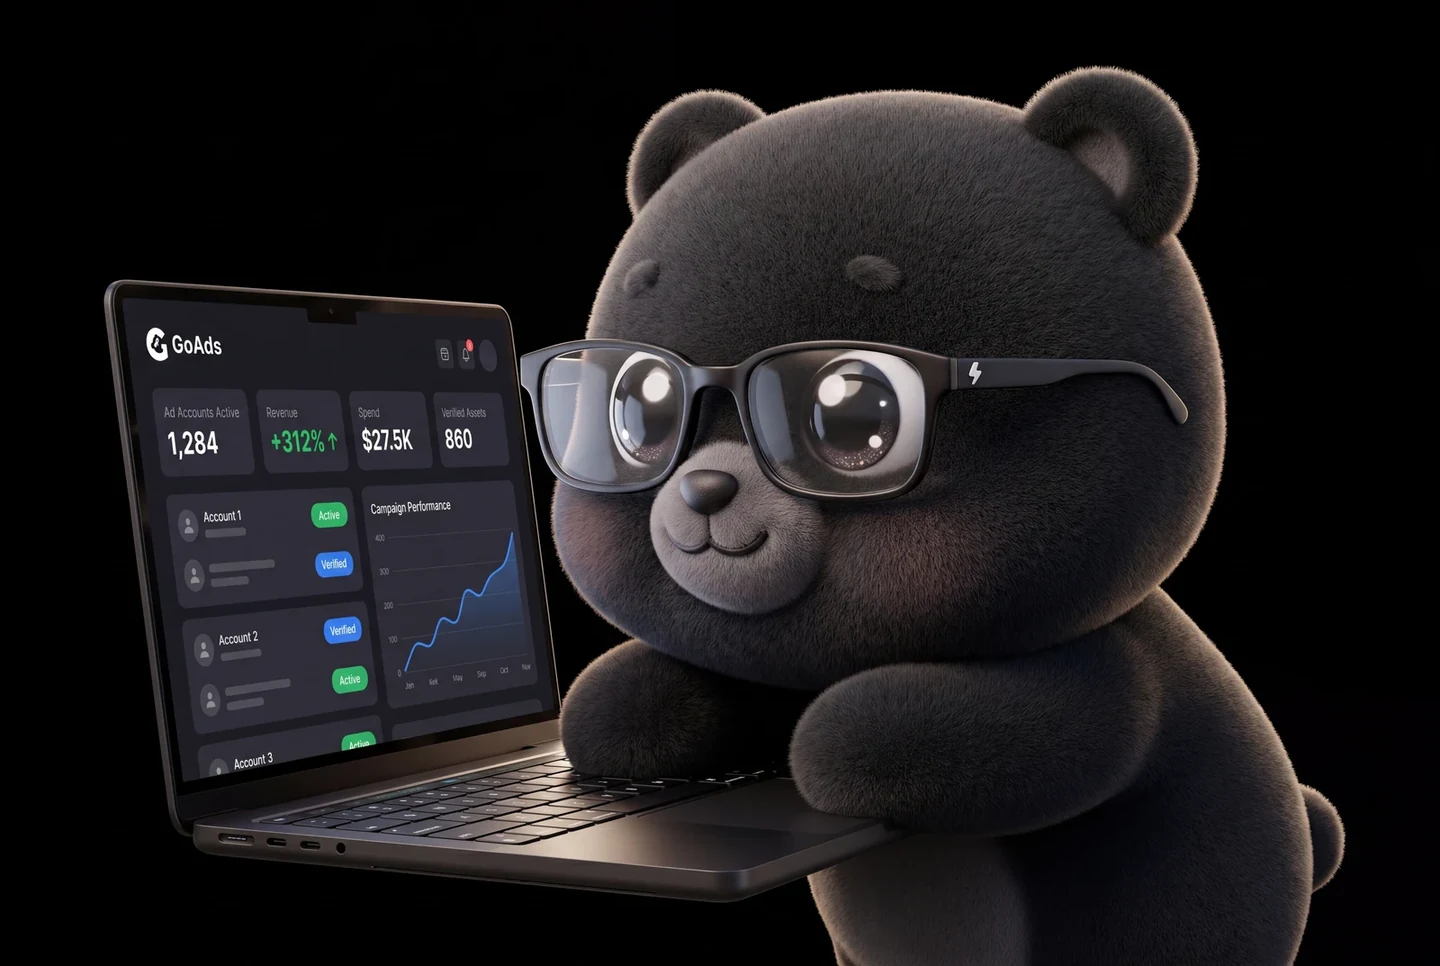
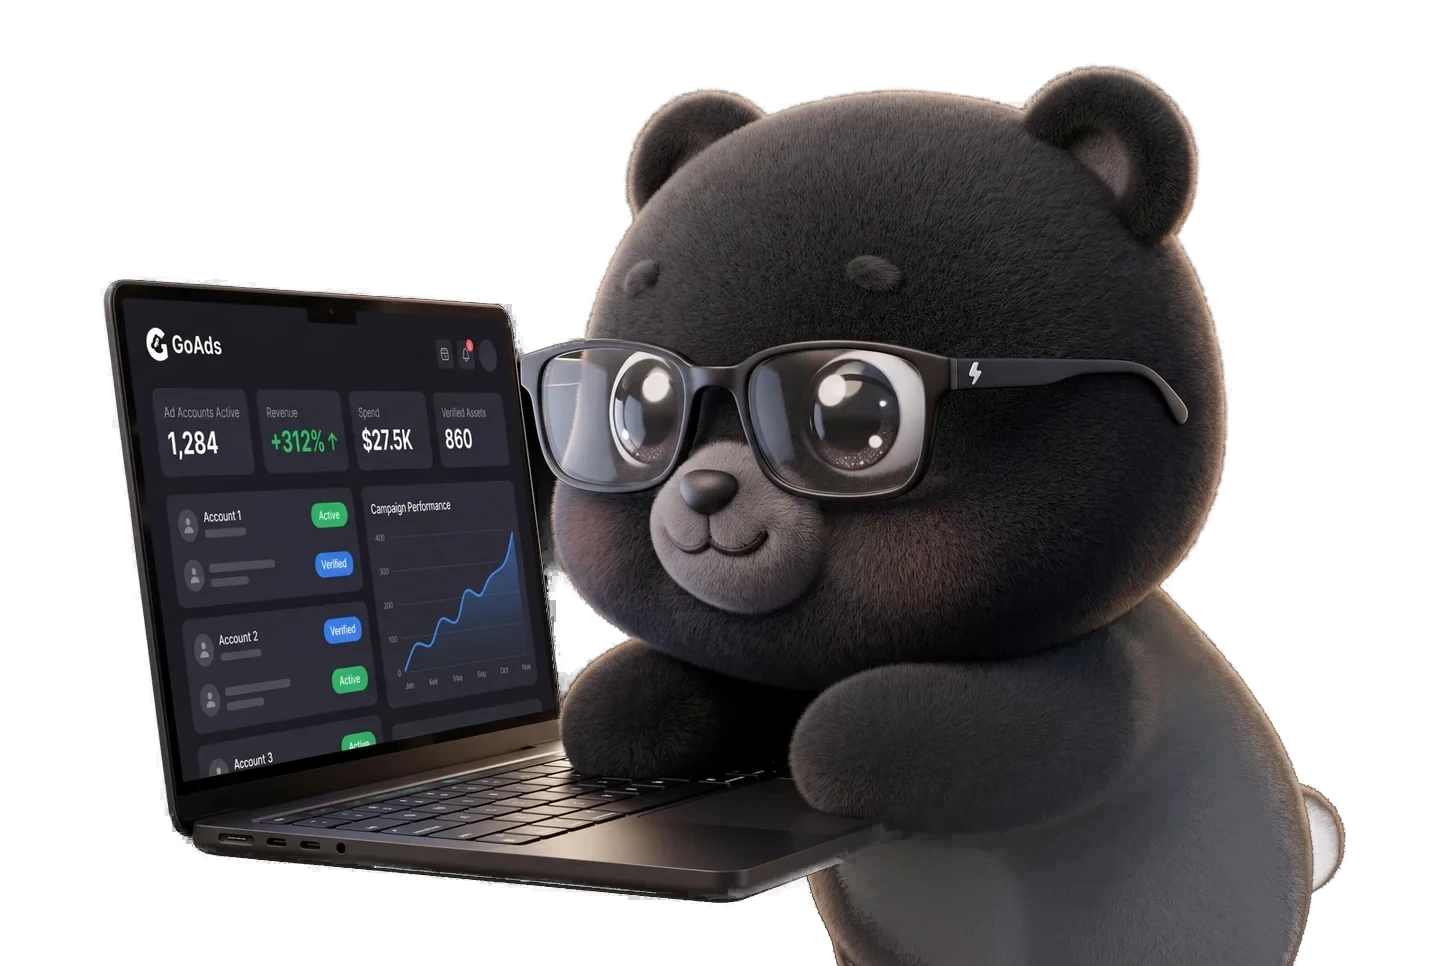
feat(landing): GoAds custom imagery + hero/CTA/showcase polish
- Hero: replace stock video with custom GoAds Facebook-verified-page visual (FB-blue), rounded corners, fade overlays
- Hero bottom: remove Meta/Facebook/Instagram logo strip (keep KPI grid)
- CTA: transparent cute-panda + laptop cutout, sized/faded to blend seamlessly into footer
- Sharing/Collab: GoAds tablet mockup (white-bg), whitespace fix
- Showcase: custom Facebook Agency Ad Account visual (Foreplay blurred-edge FB-blue language)
- Features grid: GoAds Chrome extension mockup for "Built to save you time"
- Footer: remove Chrome/G2 review badges (keep logo)

diff --git a/app/src/components/foreplay/footer/foreplay-footer-company-reviews.tsx b/app/src/components/foreplay/footer/foreplay-footer-company-reviews.tsx
@@ -5,7 +5,6 @@
 // .u-footer-company-review-text: flex, gap-2, items-center, color #ffffffad
 
 import Link from "next/link"
-import { fpText } from "@/components/foreplay/foreplay-typography"
 import { ForeplayLogoSvg } from "@/components/foreplay/footer/foreplay-logo-svg"
 
 export function ForeplayFooterCompanyReviews() {
@@ -16,74 +15,6 @@ export function ForeplayFooterCompanyReviews() {
       <Link href="/foreplay/home" aria-label="GoAds home" className="text-[var(--background)]">
         <ForeplayLogoSvg />
       </Link>
-
-      {/* .footer-company-reviews */}
-      <div className="flex items-center gap-7 max-md:flex-col max-md:items-start max-md:gap-5">
-        {/* Chrome Web Store */}
-        <a
-          href="#"
-          target="_blank"
-          rel="noopener noreferrer"
-          className="flex items-center gap-3 transition-all duration-200 hover:opacity-80"
-        >
-          <div className="size-5">
-            <ChromeIcon />
-          </div>
-          <div className="flex items-center gap-2 text-[#ffffffad]">
-            <div className="text-foreground">
-              <div className={fpText.labelM}>4.9/5</div>
-            </div>
-            <div className={fpText.labelM}>228 Reviews</div>
-          </div>
-        </a>
-
-        {/* G2 */}
-        <a
-          href="#"
-          target="_blank"
-          rel="noopener noreferrer"
-          className="flex items-center gap-3 transition-all duration-200 hover:opacity-80"
-        >
-          <div className="size-5">
-            <G2Icon />
-          </div>
-          <div className="flex items-center gap-2 text-[#ffffffad]">
-            <div className="text-foreground">
-              <div className={fpText.labelM}>4.8/5</div>
-            </div>
-            <div className={fpText.labelM}>118 Reviews</div>
-          </div>
-        </a>
-      </div>
     </div>
-  )
-}
-
-function ChromeIcon() {
-  return (
-    <svg width="20" height="20" viewBox="0 0 20 20" fill="none" xmlns="http://www.w3.org/2000/svg">
-      <g clipPath="url(#fc1)">
-        <path d="M10 15.56a5.56 5.56 0 1 0 0-11.12 5.56 5.56 0 0 0 0 11.12Z" fill="#fff" />
-        <path d="M2.8 7.27C2.4 6.55 1.9 5.79 1.34 5A10 10 0 0 0 10 20a40.5 40.5 0 0 0 1.88-2.8c.63-1.09 1.45-2.66 2.45-4.7a5 5 0 0 1-8.66 0A226.37 226.37 0 0 0 2.8 7.27Z" fill="#229342" />
-        <path d="M10 20a10 10 0 0 0 8.66-15c-1.9-.19-3.3-.28-4.2-.28-1.02 0-2.5.1-4.46.28a5 5 0 0 1 4.33 7.5L10 20Z" fill="#FBC116" />
-        <path d="M10 13.96a3.96 3.96 0 1 0 0-7.92 3.96 3.96 0 0 0 0 7.92Z" fill="#1A73E8" />
-        <path d="M10 5h8.66A10 10 0 0 0 1.34 5l4.33 7.5A5 5 0 0 1 10 5Z" fill="#E33B2E" />
-      </g>
-      <defs><clipPath id="fc1"><path fill="#fff" d="M0 0h20v20H0z" /></clipPath></defs>
-    </svg>
-  )
-}
-
-function G2Icon() {
-  return (
-    <svg width="20" height="20" viewBox="0 0 20 20" fill="none" xmlns="http://www.w3.org/2000/svg">
-      <g clipPath="url(#fg2)">
-        <path d="M20.16 0H0v20.16h20.16V0Z" fill="#FF492C" />
-        <path d="M14.33 7.66h-1.71c.05-.27.21-.42.55-.59l.31-.16c.56-.29.86-.61.86-1.14 0-.34-.13-.6-.38-.8a1.5 1.5 0 0 0-.92-.28c-.28 0-.55.08-.78.23-.23.14-.4.33-.52.56l.5.5c.19-.4.47-.58.83-.58.31 0 .5.16.5.38 0 .18-.09.34-.44.52l-.2.1a2.2 2.2 0 0 0-.92.76c-.18.29-.27.65-.27 1.09v.12h2.59v-.71Z" fill="#fff" />
-        <path d="M10.1 13.27a3.27 3.27 0 0 1 0-6.54l1.12-2.33a5.71 5.71 0 1 0 2.25 10.22l-1.24-2.15c-.6.51-1.35.8-2.13.8Z" fill="#fff" />
-        <path d="M14.1 9.18h-2.83l-1.41 2.45h2.83l1.41 2.45 1.41-2.45-1.41-2.45Z" fill="#fff" />
-      </g>
-      <defs><clipPath id="fg2"><rect width="20" height="20" rx="10" fill="#fff" /></clipPath></defs>
-    </svg>
   )
 }

diff --git a/app/src/components/foreplay/foreplay-home-hero-bottom.tsx b/app/src/components/foreplay/foreplay-home-hero-bottom.tsx
@@ -1,11 +1,7 @@
 // Foreplay home hero bottom — .home-hero-bottom
 // Sibling of .home-hero-top inside .home-hero-sticky
-// DOM: .home-hero-bottom > [platform strip] + [KPI grid]
+// DOM: .home-hero-bottom > [KPI grid]  (platform logo strip removed per request)
 // .home-hero-bottom: flex col, gap-10 (40px), text-center, text-wrap balance, relative
-//
-// Platform strip — follows Foreplay's overline+row pattern (replaces original logo-grid)
-//   .text-alpha-100 > .text-overline label + horizontal row of 3 colored brand SVGs
-//   Logos sized h-9 (36px), gap-10 horizontal spacing
 //
 // KPI grid: 6 KPIs total — 2 cols mobile / 3 cols tablet / 6 cols desktop single row
 //   gap-4 (16px) matches Foreplay's original logo grid gap exactly
@@ -14,7 +10,6 @@
 
 import { cn } from "@/lib/utils"
 import { fpText } from "@/components/foreplay/foreplay-typography"
-import { MetaLogo, FacebookLogo, InstagramLogo } from "@/components/foreplay/foreplay-platform-logos"
 
 interface ForeplayHomeHeroBottomProps {
   className?: string
@@ -43,30 +38,6 @@ export function ForeplayHomeHeroBottom({ className }: ForeplayHomeHeroBottomProp
         className,
       )}
     >
-      {/* Platform logos — Foreplay .home-hero-logo-grid spec + medium logos:
-          - grid gap-4 (16px) between cells, 3 equal 1fr columns, max-w 560px centered
-          - wrapper: p-3 + flex col center + transition all 200ms (matches .home-hero-logo-wrapper)
-          - image: h-10 (40px) — scaled up from Foreplay's h-7 base, balanced prominence */}
-      <div className="mx-auto grid w-full max-w-[560px] grid-cols-3 gap-4">
-        {[
-          { Logo: MetaLogo, glow: "rgba(0,130,251,0.45)" },
-          { Logo: FacebookLogo, glow: "rgba(24,119,242,0.45)" },
-          { Logo: InstagramLogo, glow: "rgba(214,41,118,0.5)" },
-        ].map(({ Logo, glow }, i) => (
-          <div
-            key={i}
-            className="group flex flex-col items-center justify-center p-3 transition-all duration-300"
-          >
-            <div
-              className="flex h-10 items-center justify-center transition-transform duration-300 ease-out group-hover:scale-110"
-              style={{ filter: `drop-shadow(0 0 14px ${glow}) saturate(1.25)` }}
-            >
-              <Logo className="h-full w-auto" />
-            </div>
-          </div>
-        ))}
-      </div>
-
       {/* KPI grid: 2 cols mobile → 3 cols tablet → 6 cols desktop. Gap-4 matches Foreplay logo grid */}
       <div className="grid grid-cols-2 gap-4 md:grid-cols-3 lg:grid-cols-6">
         {HERO_KPIS.map((kpi) => (

diff --git a/app/src/components/foreplay/foreplay-home-hero-video.tsx b/app/src/components/foreplay/foreplay-home-hero-video.tsx
@@ -11,7 +11,8 @@
 
 import { cn } from "@/lib/utils"
 
-const VIDEO_SRC = "/video/62a4ed18ddad95dde8b8bfa4_6833876c700d2cc61b273644_home-video-transcode.mp4"
+// Hero video replaced with a static GoAds product visual (FB-blue Foreplay-style)
+const HERO_IMAGE_SRC = "/foreplay/goads/goads-hero.webp"
 
 interface ForeplayHomeHeroVideoProps {
   className?: string
@@ -35,17 +36,17 @@ export function ForeplayHomeHeroVideo({ className }: ForeplayHomeHeroVideoProps)
       >
         {/* .home-hero-mockup */}
         <div className="relative flex flex-col items-center justify-start overflow-hidden">
-          {/* .homepage-video: aspect 1400/730, autoplay loop muted */}
-          <div className="w-full overflow-hidden [aspect-ratio:1400/730]">
-            <video
-              autoPlay
-              loop
-              muted
-              playsInline
+          {/* .homepage-video slot: aspect 1400/730 — static hero image.
+              Source desktop has no radius; rounded-3xl (24px, Foreplay large-block
+              standard) added per request so the image corners are curved. */}
+          <div className="w-full overflow-hidden rounded-3xl [aspect-ratio:1400/730]">
+            {/* eslint-disable-next-line @next/next/no-img-element */}
+            <img
+              src={HERO_IMAGE_SRC}
+              alt="GoAds verified Meta assets — Business Manager, Pages, Instagram, ad accounts, customer growth"
               className="size-full object-cover"
-            >
-              <source src={VIDEO_SRC} type="video/mp4" />
-            </video>
+              loading="eager"
+            />
           </div>
 
           {/* .home-video-overlay: gradient fade over bottom half of video */}

diff --git a/app/src/components/foreplay/foreplay-home-cta.tsx b/app/src/components/foreplay/foreplay-home-cta.tsx
@@ -31,16 +31,19 @@ export function ForeplayHomeCta() {
         </ForeplayCtaButton>
       </div>
 
-      {/* .home-cta-image-wrapper: margin -8% -40px (base). .home-cta-image: desktop
-          max-width:none (natural 1440, bleeds); width:100% only at <=991px */}
-      <div className="-mx-10 -my-[8%]">
+      {/* Image: transparent cutout, max-w 1037 (~72% of 1440 / 10% below prior 1152), centered.
+          No negative margin — parent overflow-hidden would clip the fade.
+          Footer has no bg (inherits .foreplay #020308 = this section), so the bottom
+          mask-gradient (starts at 40% — laptop level — to hide lower body/belly) dissolves
+          the subject seamlessly into the footer. */}
+      <div className="flex justify-center">
         {/* eslint-disable-next-line @next/next/no-img-element */}
         <img
           src="/foreplay/goads/goads-cta-command-center.webp"
           alt="GoAds account infrastructure command center"
           width={1440}
           height={966}
-          className="h-auto max-w-none max-lg:w-full"
+          className="h-auto w-full max-w-[1037px] [mask-image:linear-gradient(to_bottom,black_62%,transparent_98%)] [-webkit-mask-image:linear-gradient(to_bottom,black_62%,transparent_98%)]"
           loading="lazy"
         />
       </div>

diff --git a/app/src/app/foreplay/home/page.tsx b/app/src/app/foreplay/home/page.tsx
@@ -63,8 +63,8 @@ export default function ForeplayHomePage() {
           learnMoreHref="/agency-ad-account"
           tabs={discoveryTabs}
           tabImages={[
-            "/foreplay/discovery.webp",
-            "/foreplay/discovery.webp",
+            "/foreplay/goads/goads-agency-ad-account.webp",
+            "/foreplay/goads/goads-agency-ad-account.webp",
           ]}
           showSectionHead={false}
         />

diff --git a/app/src/components/foreplay/foreplay-home-features-grid.tsx b/app/src/components/foreplay/foreplay-home-features-grid.tsx
@@ -40,7 +40,7 @@ const cards = [
     ctaLabel: "View Tools",
     ctaHref: "/tools",
     isMiddle: true,
-    image: "/foreplay/feature_2.webp",
+    image: "/foreplay/goads/goads-extension-tool.webp",
   },
   {
     icon: (
